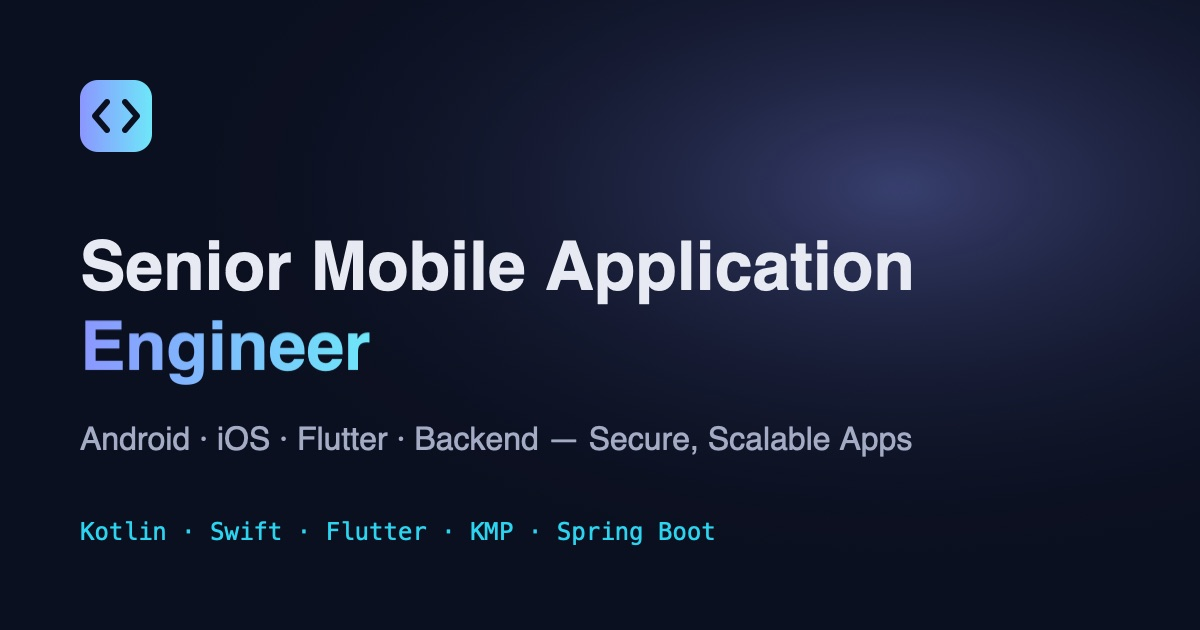
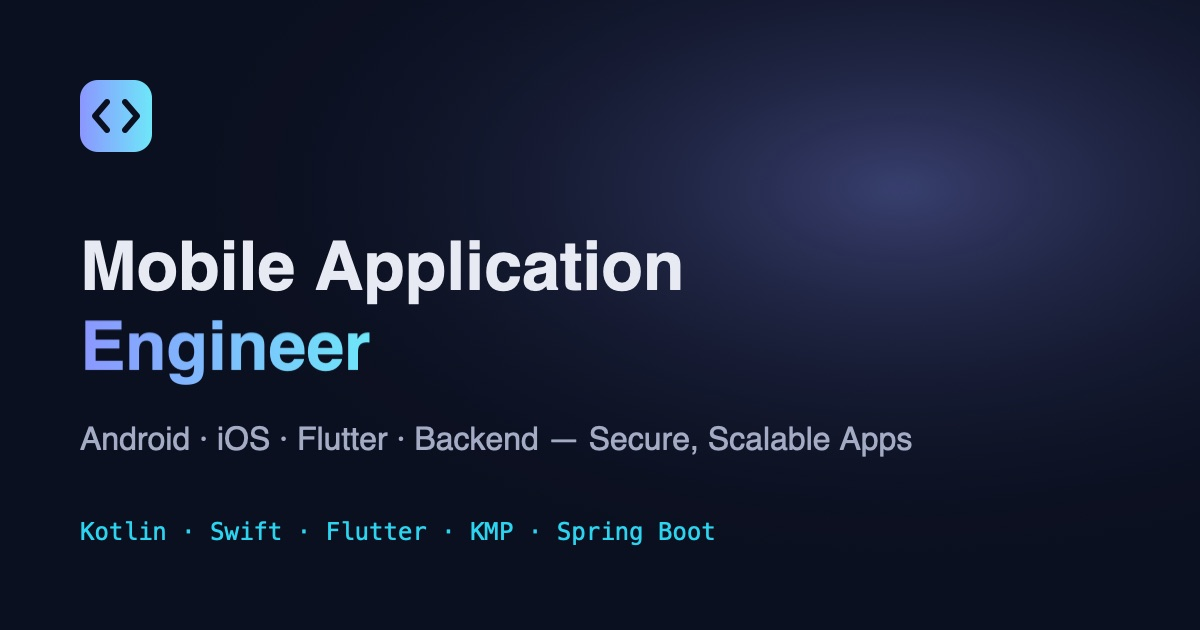
updated

Changed region(s): [[0.0617, 0.3619, 0.7708, 0.4825]]

diff --git a/index.html b/index.html
@@ -6,8 +6,8 @@
 
   <!-- SEO: replace [YOUR NAME] here too (search engines read this before JavaScript runs) -->
   <title>SHARIK ALI | Mobile Application Engineer — Android, iOS, Flutter &amp; Backend</title>
-  <meta name="description" content="Senior Mobile Application Engineer with 5+ years building production Android, iOS, Flutter and Kotlin Multiplatform apps for startups and businesses — Kotlin, Swift, Dart and Spring Boot.">
-  <meta name="author" content="[YOUR NAME]">
+  <meta name="description" content="Mobile Application Engineer with 5+ years building production Android, iOS, Flutter and Kotlin Multiplatform apps for startups and businesses — Kotlin, Swift, Dart and Spring Boot.">
+  <meta name="author" content="SHARIK ALI">
   <meta name="theme-color" content="#0b1020">
   <!-- After publishing, set your real URL: -->
   <link rel="canonical" href="https://sharikali.github.io/portfolio/">
